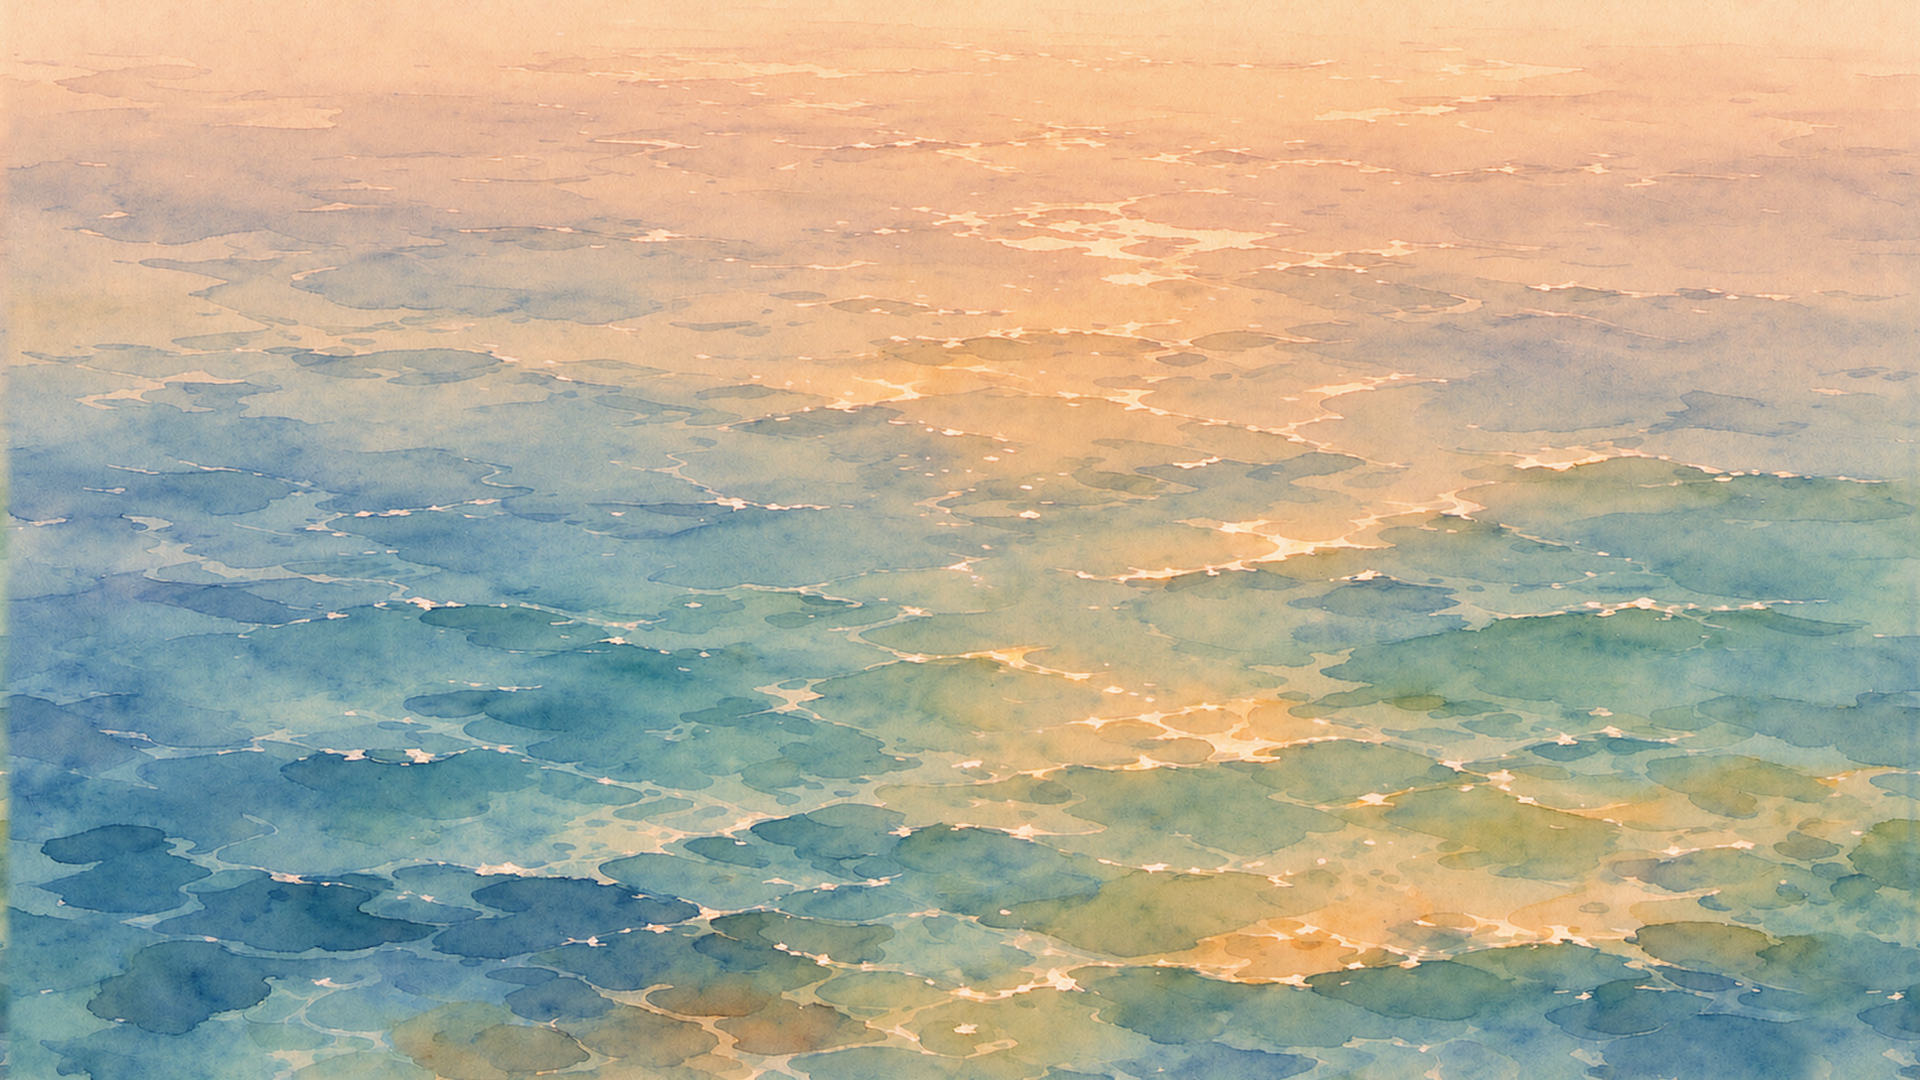
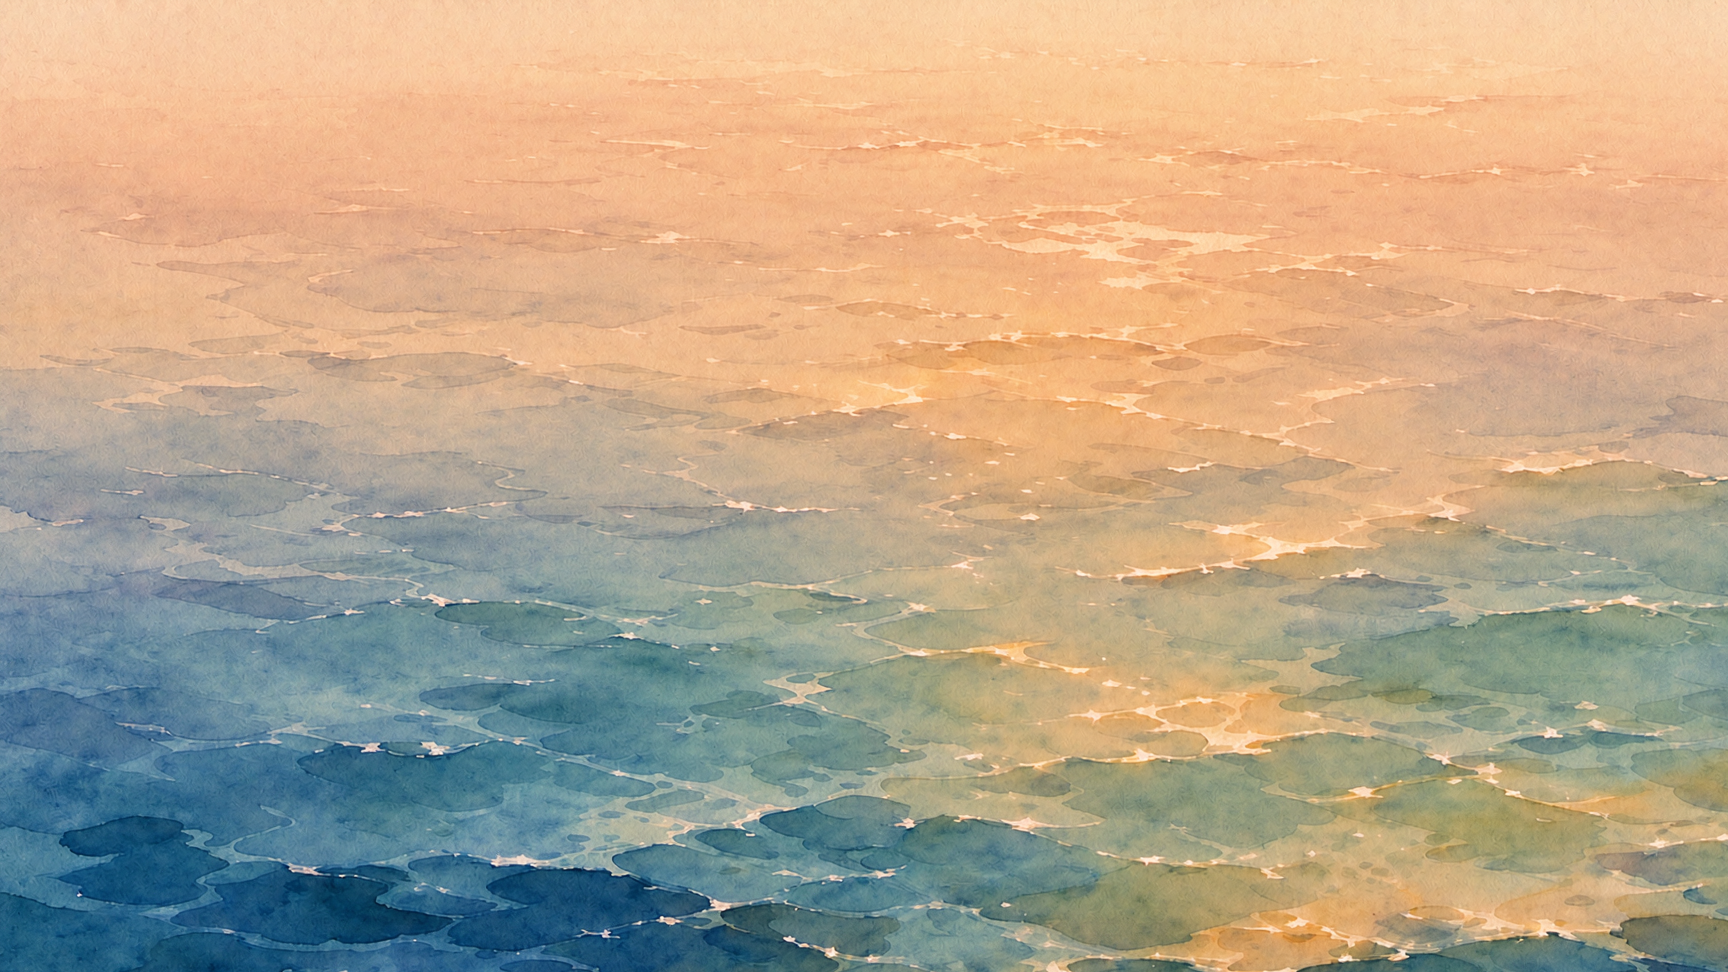
feat(art): 昼/黄昏海面换装用户水彩海面纹理 v2（C2 渲染链 1728x972）
- assets/image/SeaSurface/sea_surface_day|dusk.png 换用户 miora 再创作水彩纹理
  （1728x972 精确 16:9、上浅下深明暗层次、裁角去水印），键名/相位映射零改动
- tests/prepare_ocean_sea_art.py：day/dusk 源与 PIXEL_SIZES 同步 1728x972；
  波纹源改为伽马修复版快照 sea_ripple_overlay_gamma_v2.png（RGBA），
  防止重入库静默回退 2026-10-19 真机修复；check 契约按层拆分（海面 RGB 满幅 / 波纹 RGBA）
- manifest style/format 注明昼黄昏非严格无缝（底图 scroll=false 固定，标志保留）
- B8 套件 catalog 规格契约同步：昼/黄昏 1728x972、夜 1920x1080
- 包体净减约 0.9MB（2.67+2.91 -> 2.32+2.37）
- b5 基线：67 套件 592 检查，本渠道相关套件全绿；4 处失败为 HEAD 既有
  （ABMergeFrameBudget/B2Barrel busy、HUDReview x2，并行会话 WIP，与本提交无关）

diff --git a/tests/prepare_ocean_sea_art.py b/tests/prepare_ocean_sea_art.py
@@ -1,7 +1,17 @@
 """纯海面 v2（SeaSurface）入库：三张时段海面 + 波纹平铺层 → assets/image/SeaSurface/ + manifest + catalog 重生成。
 
-素材来源：E:/workbath/Fishing/_gen_pure_sea/pure_sea_{day,dusk,night}_v2.png
-（miora 锚点链生成 + .tmp/sea_postprocess_v2.py 去右下角 AI 水印 / 1920×1080 校正 / 左右 96px 无缝融合）。
+素材来源（2026-10-20 换装）：
+- day/dusk：E:/workbath/Fishing/_gen_pure_sea/watercolor_sea_{day,dusk}_v2.png
+  （用户 miora 再创作「读海_水彩海面纹理_v2」水彩海面：保留水彩底色、上浅下深明暗
+  层次、远景低对比低细节、近景清晰较疏波纹；1728×972 精确 16:9，裁角去平台水印。
+  复制为 ASCII 文件名入库；左右边缘非严格无缝，底图默认 scroll=false 固定，
+  repeatTexture 横拼标志保留备用）。
+- night：E:/workbath/Fishing/_gen_pure_sea/pure_sea_night_v2.png（miora 锚点链派生
+  v2，1920×1080；方案 A 夜图不进自动映射，留作 SeaDebug/后续方案）。
+- 波纹：E:/workbath/Fishing/_gen_pure_sea/sea_ripple_overlay_gamma_v2.png
+  （2026-10-19 真机修复后的权威产物快照：去白底提 alpha + 伽马 0.55 重提取，
+  RGBA 512×288 双向无缝瓦片。原 sea_ripple_serene_v1.png 为 RGB 白底原始素材，
+  直接重入库会静默回退真机修复，故改以修复版为源）。
 
 海面为屏幕空间材质层（ImageArt.SeaSurface：地平线裁剪 + imagePattern + 相机横向滚动），
 不是世界实体，因此与生态层组件的契约不同：
@@ -31,15 +41,16 @@ CATALOG = ROOT / "scripts/GeneratedData/OceanImageCatalog.lua"
 SOURCE_DIR = Path("E:/workbath/Fishing/_gen_pure_sea")
 # 目录名 -> 源文件（时段顺序即交付顺序）
 SOURCES = {
-    "sea_surface_day": "pure_sea_day_v2.png",
-    "sea_surface_dusk": "pure_sea_dusk_v2.png",
+    "sea_surface_day": "watercolor_sea_day_v2.png",
+    "sea_surface_dusk": "watercolor_sea_dusk_v2.png",
     "sea_surface_night": "pure_sea_night_v2.png",
-    "sea_ripple_overlay": "sea_ripple_serene_v1.png",
+    "sea_ripple_overlay": "sea_ripple_overlay_gamma_v2.png",
 }
-# 各素材目标像素尺寸：海面满幅 1920×1080；波纹平铺瓦片 512×288
+# 各素材目标像素尺寸：昼/黄昏为用户水彩纹理原生 1728×972（精确 16:9）；
+# 夜图沿用锚点链 v2 满幅 1920×1080；波纹平铺瓦片 512×288
 PIXEL_SIZES = {
-    "sea_surface_day": (1920, 1080),
-    "sea_surface_dusk": (1920, 1080),
+    "sea_surface_day": (1728, 972),
+    "sea_surface_dusk": (1728, 972),
     "sea_surface_night": (1920, 1080),
     "sea_ripple_overlay": (512, 288),
 }
@@ -93,8 +104,12 @@ def prepare():
                       "status": "ready_wired", "period": PERIODS[name]})
         entries[name] = entry
     manifest = {"schema_version": 1,
-                "style": "读海日系水彩绘本风，纯海面满幅（无天空/地平线），锚点链派生：风格参考图→日间锚点→黄昏/夜晚",
-                "format": "不透明 RGB PNG 满幅；上浅下深纵深过渡；左右边缘无缝可横向循环拼接",
+                "style": "读海日系水彩绘本风：昼/黄昏为 2026-10-20 用户提供水彩海面纹理 v2"
+                         "（宁静，纯海面满幅，上浅下深明暗层次），夜晚为 miora 锚点链派生 v2；"
+                         "波纹平铺层为 2026-10-18 用户提供水彩波纹纹理",
+                "format": "不透明 RGB 满幅/瓦片；昼/黄昏 1728×972 精确 16:9、夜 1920×1080；"
+                          "上浅下深纵深过渡；昼/黄昏左右边缘非严格无缝（底图默认 scroll=false 固定，"
+                          "repeatTexture 标志保留备用），波纹瓦片双向无缝可 REPEATX|REPEATY 平铺",
                 "projection": "屏幕空间材质层（ImageArt.SeaSurface）：地平线裁剪 + imagePattern + 相机横向滚动，非世界平面",
                 "placement": "SeaViewArt.Surface 相位映射（方案 A 夜罩不动）：day 承载日间与夜间（夜间=昼图过夜罩），"
                              "dusk 用于昼相 progress≥0.8 交叉淡入，night 留 SeaDebug/后续方案",
@@ -114,7 +129,12 @@ def check():
         path = ROOT / "assets" / entry["path"]
         assert path.is_file(), f"{name} 运行目录缺失"
         with Image.open(path) as image:
-            assert image.mode == "RGB", f"{name} 应为不透明 RGB 满幅"
+            if name == "sea_ripple_overlay":
+                # 波纹层 2026-10-19 起为 RGBA（去白底提 alpha + 伽马重提取），
+                # 自持透明度叠加于海面之上；其余海面三图为不透明 RGB 满幅。
+                assert image.mode == "RGBA", f"{name} 应为 RGBA（自持 alpha 波纹）"
+            else:
+                assert image.mode == "RGB", f"{name} 应为不透明 RGB 满幅"
             assert image.size == PIXEL_SIZES[name], f"{name} 尺寸不符（{PIXEL_SIZES[name]} 契约）"
             assert image.size == tuple(entry["size"]), f"{name} 清单尺寸不符"
         source = Path(entry["source"])
@@ -127,9 +147,11 @@ def check():
         actual = module.describe(path, entry["source"])
         for key in ("size", "content_bounds", "alpha_range", "sha256"):
             assert actual[key] == entry[key], f"{name} 的 {key} 与清单不一致"
-        # 海面契约：满幅不透明（与组件类的透明留边相反）
-        assert entry["alpha_range"] == [255, 255], f"{name} 应完全不透明"
-        assert entry["content_bounds"] == [0, 0, *PIXEL_SIZES[name]], f"{name} 应满幅无留边"
+        # 海面契约：三张海面满幅不透明（与组件类的透明留边相反）；
+        # 波纹层为 RGBA 自持 alpha（叠加层），不适用该断言
+        if name != "sea_ripple_overlay":
+            assert entry["alpha_range"] == [255, 255], f"{name} 应完全不透明"
+            assert entry["content_bounds"] == [0, 0, *PIXEL_SIZES[name]], f"{name} 应满幅无留边"
         assert entry["preload"] == PRELOAD[name], f"{name} preload 与方案 A 契约不符"
     text = CATALOG.read_text(encoding="utf-8")
     assert text == eco_importer().catalog_text(), "运行目录与素材清单不同步（catalog 需重生成）"
